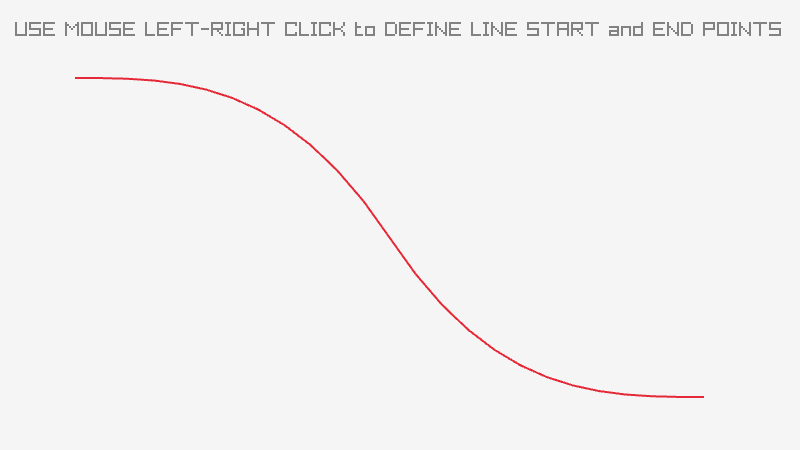
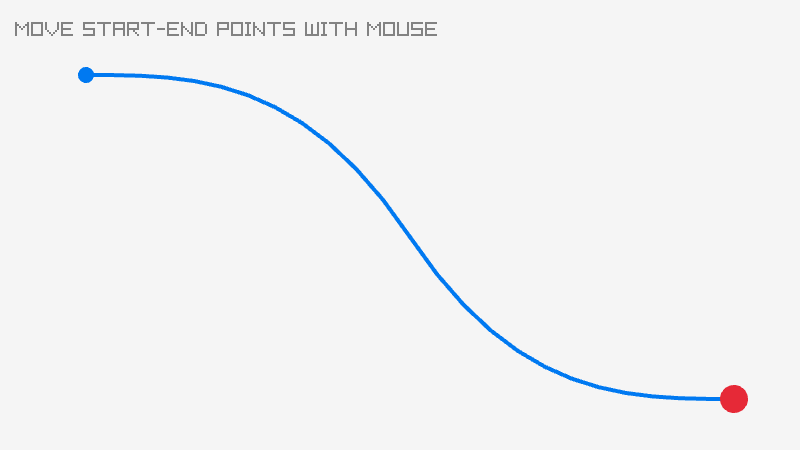
Updated examples

Changed region(s): [[0.0312, 0.0311, 0.9688, 0.0933], [0.0938, 0.1556, 0.9375, 0.9333]]

diff --git a/examples/shapes/shapes_lines_bezier.c b/examples/shapes/shapes_lines_bezier.c
@@ -26,11 +26,10 @@ int main(void)
     SetConfigFlags(FLAG_MSAA_4X_HINT);
     InitWindow(screenWidth, screenHeight, "raylib [shapes] example - cubic-bezier lines");
 
-    Vector2 start = { 0, 0 };
-    Vector2 end = { (float)screenWidth, (float)screenHeight };
-    
-    Vector2 startControl = { 100, 0 };
-    Vector2 endControl = { GetScreenWidth() - 100, GetScreenHeight() };
+    Vector2 startPoint = { 30, 30 };
+    Vector2 endPoint = { (float)screenWidth - 30, (float)screenHeight - 30 };
+    bool moveStartPoint = false;
+    bool moveEndPoint = false;
 
     SetTargetFPS(60);               // Set our game to run at 60 frames-per-second
     //--------------------------------------------------------------------------------------
@@ -40,15 +39,21 @@ int main(void)
     {
         // Update
         //----------------------------------------------------------------------------------
-        if (IsKeyDown(KEY_LEFT_CONTROL))
+        Vector2 mouse = GetMousePosition();
+
+        if (CheckCollisionPointCircle(mouse, startPoint, 10.0f) && IsMouseButtonDown(MOUSE_BUTTON_LEFT)) moveStartPoint = true;
+        else if (CheckCollisionPointCircle(mouse, endPoint, 10.0f) && IsMouseButtonDown(MOUSE_BUTTON_LEFT)) moveEndPoint = true;
+
+        if (moveStartPoint)
         {
-            if (IsMouseButtonDown(MOUSE_BUTTON_LEFT)) startControl = GetMousePosition();
-            else if (IsMouseButtonDown(MOUSE_BUTTON_RIGHT)) endControl = GetMousePosition();
+            startPoint = mouse;
+            if (IsMouseButtonReleased(MOUSE_BUTTON_LEFT)) moveStartPoint = false;
         }
-        else
+
+        if (moveEndPoint)
         {
-            if (IsMouseButtonDown(MOUSE_BUTTON_LEFT)) start = GetMousePosition();
-            else if (IsMouseButtonDown(MOUSE_BUTTON_RIGHT)) end = GetMousePosition();
+            endPoint = mouse;
+            if (IsMouseButtonReleased(MOUSE_BUTTON_LEFT)) moveEndPoint = false;
         }
         //----------------------------------------------------------------------------------
 
@@ -58,18 +63,14 @@ int main(void)
 
             ClearBackground(RAYWHITE);
 
-            DrawText("USE MOUSE LEFT-RIGHT CLICK to DEFINE LINE START and END POINTS", 15, 20, 20, GRAY);
+            DrawText("MOVE START-END POINTS WITH MOUSE", 15, 20, 20, GRAY);
 
             // Draw line Cubic Bezier, in-out interpolation (easing), no control points
-            DrawLineBezier(start, end, 3.0f, BLUE);
+            DrawLineBezier(startPoint, endPoint, 4.0f, BLUE);
             
-            // Draw spline Cubic Bezier with control points
-            DrawSplineSegmentBezierCubic(start, startControl, endControl, end, 2.0f, RED);
-            
-            DrawLineEx(start, startControl, 1.0, LIGHTGRAY);
-            DrawLineEx(end, endControl, 1.0, LIGHTGRAY);
-            DrawCircleV(startControl, 10, RED);
-            DrawCircleV(endControl, 10, RED);
+            // Draw start-end spline circles with some details
+            DrawCircleV(startPoint, CheckCollisionPointCircle(mouse, startPoint, 10.0f)? 14 : 8, moveStartPoint? RED : BLUE);
+            DrawCircleV(endPoint, CheckCollisionPointCircle(mouse, endPoint, 10.0f)? 14 : 8, moveEndPoint? RED : BLUE);
 
         EndDrawing();
         //----------------------------------------------------------------------------------

diff --git a/examples/shapes/shapes_splines_drawing.c b/examples/shapes/shapes_splines_drawing.c
@@ -192,12 +192,12 @@ int main(void)
                     DrawSplineSegmentBezierCubic(points[i], control[i].start, control[i].end, points[i + 1], splineThickness, RED);
 
                     // Every cubic bezier point should have two control points
-                    DrawCircleV(control[i].start, 4, GOLD);
-                    DrawCircleV(control[i].end, 4, GOLD);
-                    if (focusedControlPoint == &control[i].start) DrawCircleV(control[i].start, 6, GREEN);
-                    else if (focusedControlPoint == &control[i].end) DrawCircleV(control[i].end, 6, GREEN);
-                    DrawLineEx(points[i], control[i].start, 1.0, LIGHTGRAY);
-                    DrawLineEx(points[i + 1], control[i].end, 1.0, LIGHTGRAY);
+                    DrawCircleV(control[i].start, 6, GOLD);
+                    DrawCircleV(control[i].end, 6, GOLD);
+                    if (focusedControlPoint == &control[i].start) DrawCircleV(control[i].start, 8, GREEN);
+                    else if (focusedControlPoint == &control[i].end) DrawCircleV(control[i].end, 8, GREEN);
+                    DrawLineEx(points[i], control[i].start, 1.0f, LIGHTGRAY);
+                    DrawLineEx(points[i + 1], control[i].end, 1.0f, LIGHTGRAY);
                 
                     // Draw spline control lines
                     DrawLineV(points[i], control[i].start, GRAY);
